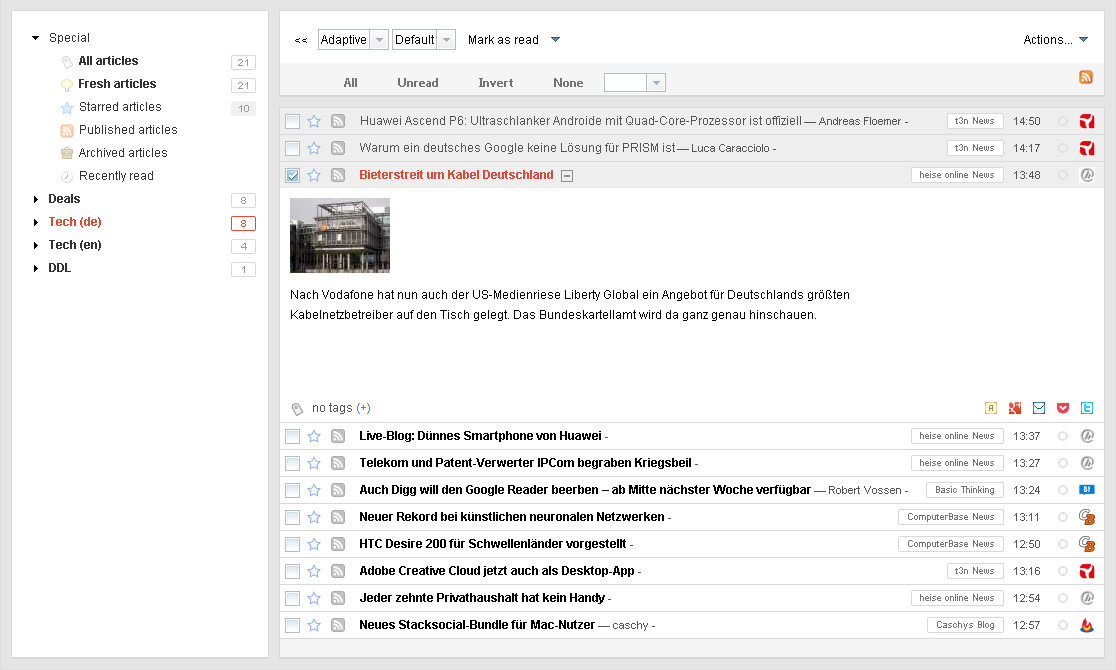
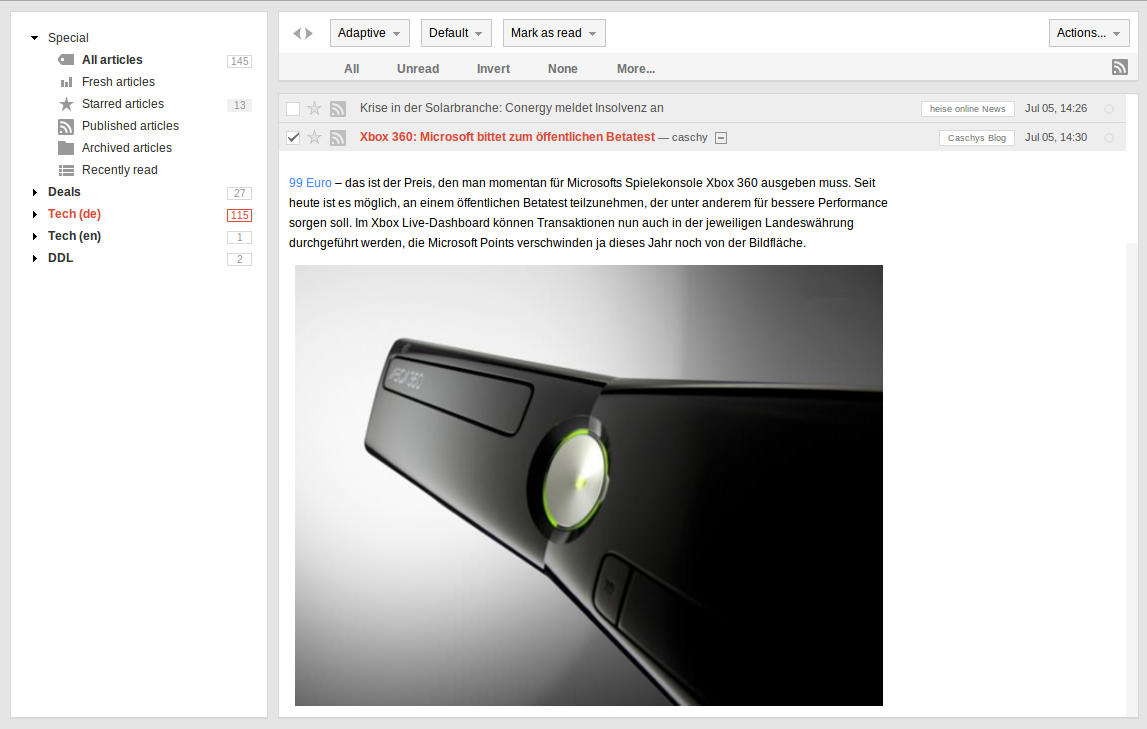
update screenshot and readme

diff --git a/README.md b/README.md
@@ -3,9 +3,10 @@
 clean-greader is a tiny tiny rss (1.8) theme based on the latest Google Reader and inspired by other Google Services.
 
 ### Screenshot
-2013-06-18 | tt-rss v1.8.30d2d8a | Google Chrome Beta 28.0.1500.44
+2013-07-15 | tt-rss v1.8.776b195 | Chromium 28.0.1500.52 on Linux Mint 15
 ![](https://raw.github.com/naeramarth7/clean-greader/master/img/preview.png)
 
 ### Tiny Tiny RSS Settings
 * Combined feed display [x]
+* Automatically expand articles in combined mode [ ]
 * Show content preview in headlines list [ ]
